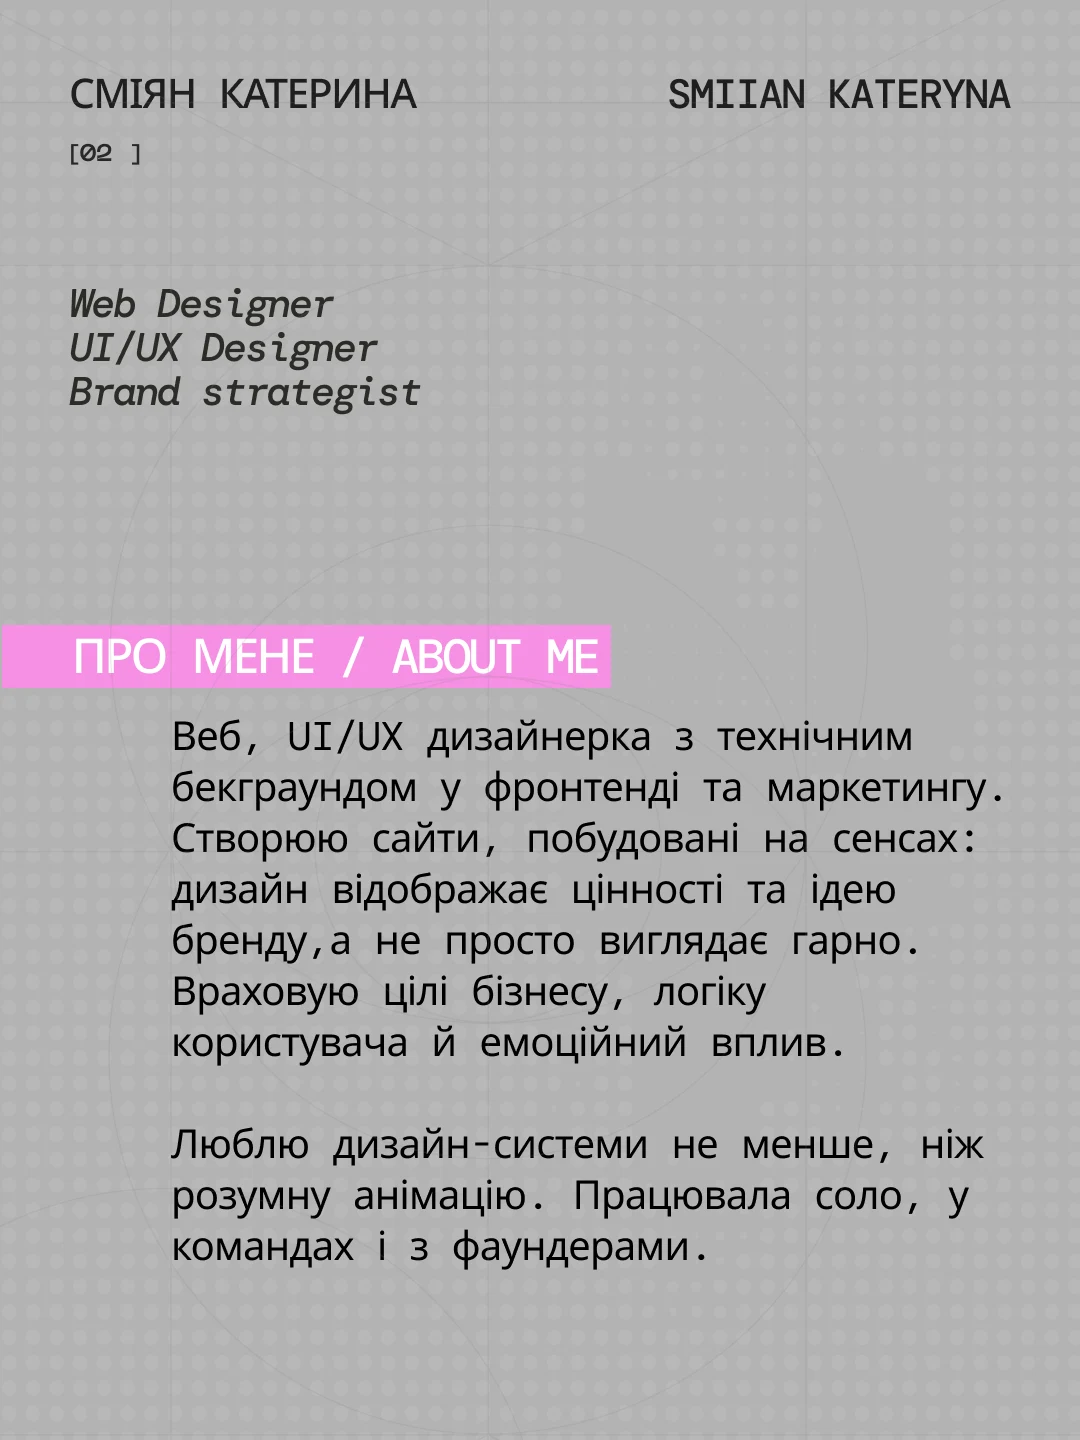
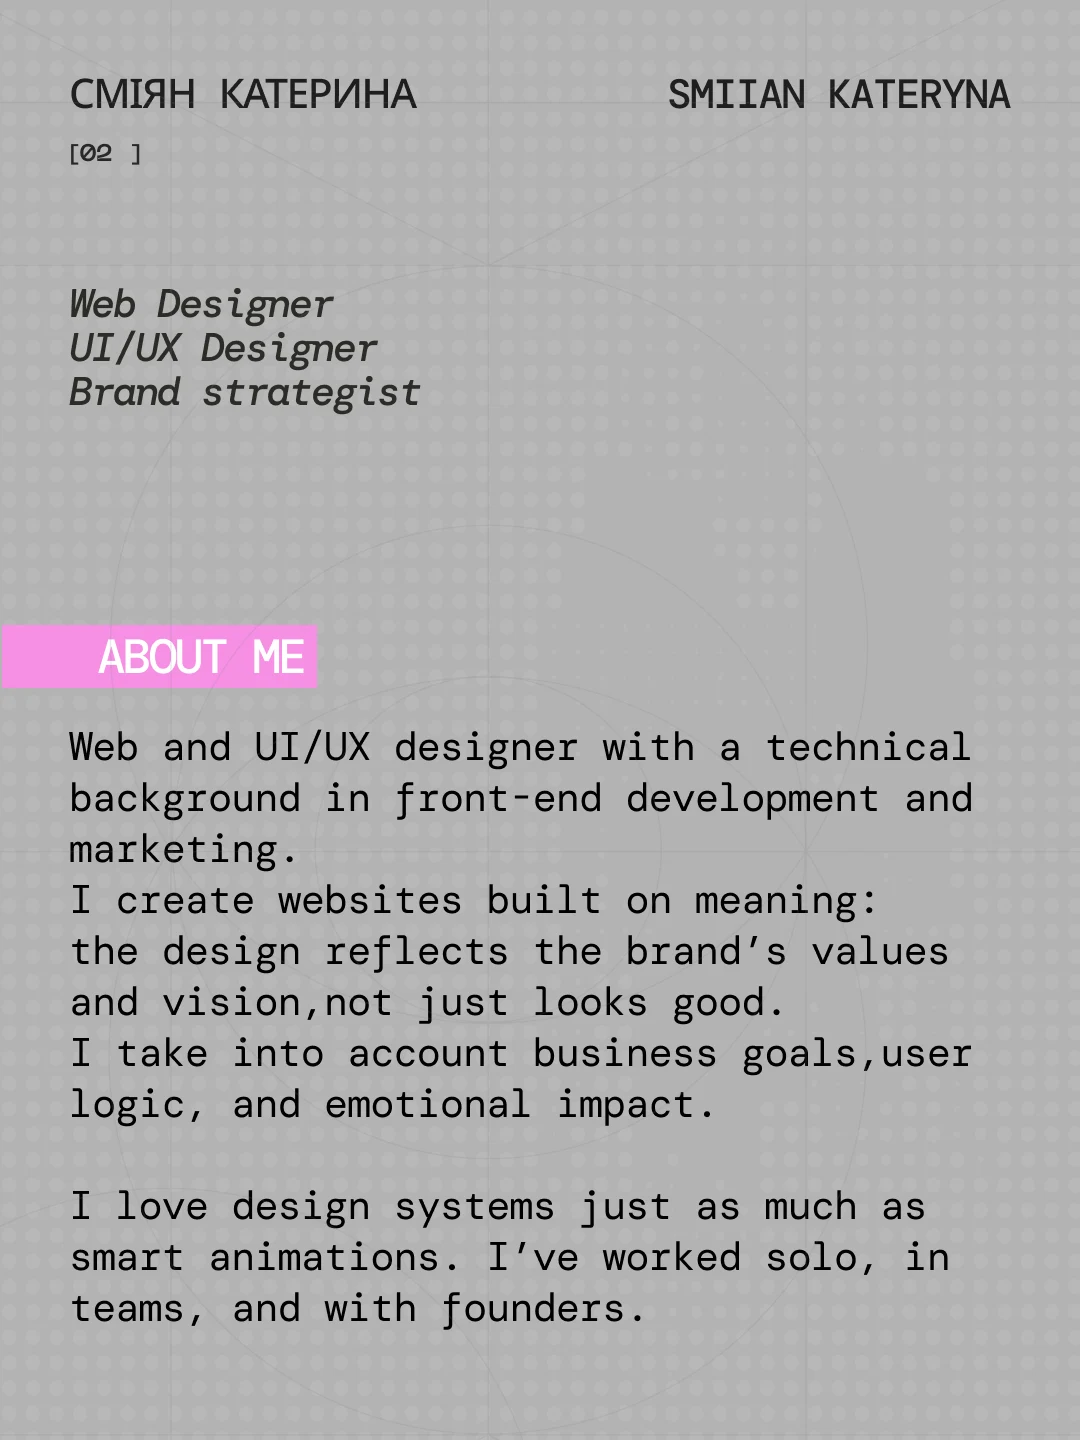
Badge back in English, Open project button sits under the case title
- About: badge back is the English "About me" (Frame 48097610 en); Ukrainian kept as badge-back-uk
- Portfolio: button follows the caption (card height x focus lift), never below the screen edge

Claude-Session: https://claude.ai/code/session_01QU2Ey3NwfuZ6z4669cXgvx

Changed region(s): [[0.0611, 0.4062, 0.9167, 0.9375], [0.8556, 0.7812, 0.9167, 0.8125], [0.825, 0.7188, 0.8861, 0.75]]

diff --git a/src/components/sections/portfolio/Portfolio.tsx b/src/components/sections/portfolio/Portfolio.tsx
@@ -32,6 +32,7 @@ const ROACH = { x: 1720, y: 811, w: 156.465, h: 235.8 };
 export function Portfolio() {
   const sectionRef = useRef<HTMLElement>(null);
   const apiRef = useRef<FlexCarouselApi | null>(null);
+  const stageRef = useRef<HTMLDivElement>(null);
   const arrived = usePortfolioScroll(sectionRef, count, apiRef);
   // відкритий кейс (клік по обкладинці) — під ним кнопка «Open project»
   const [opened, setOpened] = useState<number | null>(null);
@@ -60,7 +61,7 @@ export function Portfolio() {
         ))}
       </ul>
 
-      <div className="sticky top-0 h-svh overflow-hidden [--spacing:var(--u)] [--u:var(--s)] max-md:[--u:calc(var(--page-w,100vw)/1920)]">
+      <div ref={stageRef} className="sticky top-0 h-svh overflow-hidden [--spacing:var(--u)] [--u:var(--s)] max-md:[--u:calc(var(--page-w,100vw)/1920)]">
         <div className="absolute inset-0" aria-label={portfolio.galleryLabel} role="group">
           {arrived && noWebgl && (
             <ul className="flex size-full items-center justify-center gap-24 px-120">
@@ -83,14 +84,17 @@ export function Portfolio() {
               gap={24}
               captureWheel={false}
               apiRef={apiRef}
+              liftTargetRef={stageRef}
               onFocusChange={(open, index) => setOpened(open ? index : null)}
             />
           )}
         </div>
 
-        {/* кнопка під відкритим кейсом */}
+        {/* кнопка під відкритим кейсом — під назвою кейсу: та сама точка, що й підпис галереї
+            (низ картки: 50% + 25% × збільшення, підпис на 22 px нижче, рядок назви ≈ 20 px), але не нижче краю екрана */}
         <div
-          className={`absolute bottom-120 left-1/2 z-20 -translate-x-1/2 transition-[opacity,translate] duration-500 ${
+          style={{ top: "min(calc(50% + 25% * var(--flex-carousel-lift, 1) + 58px), calc(100% - 56px))" }}
+          className={`absolute left-1/2 z-20 -translate-x-1/2 transition-[opacity,translate] duration-500 ${
             openedCase ? "translate-y-0 opacity-100" : "pointer-events-none translate-y-16 opacity-0"
           }`}
           aria-hidden={openedCase ? undefined : true}

diff --git a/src/components/sections/about/Badge.tsx b/src/components/sections/about/Badge.tsx
@@ -2,7 +2,8 @@
 
 /*
  * Бейдж на шнурку для About: Lanyard (three.js), як у шаблоні React Bits.
- * Лице — фото (assets/about/badge-front), зворот — «Про мене» (badge-back), на рожевому шнурку — монограма KS.
+ * Лице — фото (assets/about/badge-front), зворот — «About me» англійською (badge-back, з assets-for-site/Frame 48097610 en;
+ * українська версія звороту — badge-back-uk, для UA-версії сайту), на рожевому шнурку — монограма KS.
  * Розмір, довжина шнурка, кути й «вітерець» — як у шаблоні (значення за замовчуванням Lanyard).
  * Тягни мишею, клік — перевертає. Вантажиться лише в браузері (About підключає через next/dynamic, ssr: false),
  * тож кольори токенів читаємо одразу.

diff --git a/src/components/effects/FlexCarousel.d.ts b/src/components/effects/FlexCarousel.d.ts
@@ -36,6 +36,8 @@ export type FlexCarouselProps = {
   onUnsupported?: () => void;
   /** керування ззовні: goTo(index), close() */
   apiRef?: { current: FlexCarouselApi | null };
+  /** елемент, якому теж писати --flex-carousel-lift (на скільки збільшена картка у фокусі) — щоб ставити щось під підписом */
+  liftTargetRef?: { current: HTMLElement | null };
   className?: string;
   style?: CSSProperties;
 };

diff --git a/src/components/effects/FlexCarousel.jsx b/src/components/effects/FlexCarousel.jsx
@@ -255,6 +255,7 @@ const FlexCarousel = ({
   onFocusChange,
   onUnsupported,
   apiRef,
+  liftTargetRef,
   className = '',
   style
 }) => {
@@ -824,6 +825,7 @@ const FlexCarousel = ({
       if (Math.abs(nextLift - lift) > 0.0005) {
         lift = nextLift;
         container.style.setProperty('--flex-carousel-lift', lift.toFixed(4));
+        liftTargetRef?.current?.style.setProperty('--flex-carousel-lift', lift.toFixed(4));
       }
 
       const effects = introEffects();

diff --git a/CLAUDE.md b/CLAUDE.md
@@ -41,7 +41,7 @@
 - Molecula (`sections/molecula/`, Figma «Look & Feel 11», node 12352:7619): крейдове тло `effects/ChalkField` → стопка карток `ui/CardStack` → тарган із блокнотом (`ui/RoachNote`, фраза на наведенні) → кнопка `ui/BlotButton`, що відкриває `ui/ContactDialog` (форма: послуга, ім'я, контакт, повідомлення; без сервера — «Send» відкриває заповнений лист на Email; нижче список контактів; підписи — `content/site.ts` → `chrome.form`). Секція висока, сцена прилипає до екрана, картки гортаються скролом або кліком/перетягуванням/клавішами (`molecula.motion.ts`). Тексти карток — `content/molecula.ts` (англ. + `uk`), кольори карток — `cardColors` у `Molecula.tsx`.
 - Закріплене в екрані на всьому сайті — `layout/SiteChrome.tsx` (підключено в `layout.tsx`): угорі ліворуч підпис «kateryna smiian», угорі праворуч стовпчиком `[ GET IN TOUCH]`, `[ UA]`, `[ EN]`, внизу ліворуч прогрес-бар (лінія з крапками: верхня — hero, далі по одній на пункт меню) і меню `[MOLECULA     ]`. Активна секція — рожева крапка зі світінням і рожевий пункт меню. Колір пункту — за тлом секції під ним: секція ставить `data-nav-theme="light"` (темний текст) або `"dark"` (кремовий). З'являється разом з меню hero (подія `chrome:show`). Вікно зв'язку одне на сайт: `openContact()` з `ui/ContactDialog`. На мобільному поки лише правий верхній кут — меню переїде в бургер.
 - Порядок секцій: Hero → Molecula → About → Portfolio → Services → Contact. Testimonials поки сховані (`hidden: true` у `content/site.ts` → `sections`; меню `navigation` — лише видимі).
-- About (`sections/about/`, Figma «Look & Feel 12», node 12361:167): тло `--color-night`; великий жовтий текст — контури Coolvetica (`node scripts/gen-about-lettering.mjs` → `about/lettering.ts`, текст у `content/about.ts`) з ефектом Luminous (`effects/LuminousText.tsx`); бейдж на шнурку — `effects/Lanyard.jsx` (three.js) як у шаблоні React Bits: лице `badge-front`, зворот «Про мене» `badge-back`, шнурок із монограмою `strap-ks` (`assets/about`, з `assets-for-site`); тарган із німбом після тексту; іконки контактів (посилання — `content/site.ts` → `contacts`, замість LinkedIn — WhatsApp). Секція трохи вища за екран: коли повністю заїхала — сцена стоїть, з'являється текст із підсвіткою, тарган, іконки (`about.motion.ts`).
+- About (`sections/about/`, Figma «Look & Feel 12», node 12361:167): тло `--color-night`; великий жовтий текст — контури Coolvetica (`node scripts/gen-about-lettering.mjs` → `about/lettering.ts`, текст у `content/about.ts`) з ефектом Luminous (`effects/LuminousText.tsx`); бейдж на шнурку — `effects/Lanyard.jsx` (three.js) як у шаблоні React Bits: лице `badge-front`, зворот «About me» `badge-back` (англ.; українська — `badge-back-uk` для UA-версії), шнурок із монограмою `strap-ks` (`assets/about`, з `assets-for-site`); тарган із німбом після тексту; іконки контактів (посилання — `content/site.ts` → `contacts`, замість LinkedIn — WhatsApp). Секція трохи вища за екран: коли повністю заїхала — сцена стоїть, з'являється текст із підсвіткою, тарган, іконки (`about.motion.ts`).
 - Portfolio (`sections/portfolio/`, Figma «Look & Feel 13», node 12364:229): тло `--color-night`, посередині галерея кейсів `effects/FlexCarousel.jsx` (WebGL, ogl) з обкладинками з `assets/portfolio` (з `assets-for-site/cases`, назва = назва кейсу; список — `content/portfolio.ts`). Сцена прилипає, лише коли секція повністю в екрані; тоді ж з'являється галерея, і скрол гортає кейси по черзі (`portfolio.motion.ts`). Клік по обкладинці відкриває кейс, під ним кнопка «Open project» → сторінка кейса `/portfolio/<slug>` (`app/portfolio/[slug]/page.tsx`, поки заглушка без макета). Тарганка з намистом унизу праворуч.
 - Services (`sections/services/`, Figma «Look & Feel 14», node 12364:282 — орієнтовний макет на 3 картки): тло `--color-night`, заголовок SERVICES і ціни — контури Coolvetica (`node scripts/gen-services-lettering.mjs` → `services/lettering.ts`), 5 карток-аркушів віялом (тексти й ціни — `content/services.ts`), клік по картці обирає її (виходить наперед, вирівнюється, жовте світіння), кнопка під віялом відкриває вікно зв'язку з уже обраною послугою (`openContact(title)`); тарган за кермом під кнопкою, фраза на наведенні. Поява — коли секція повністю в екрані (`services.motion.ts`). На мобільному — ряд карток, що гортається вбік.
 - Contact (`sections/contact/`, макета немає — за описом): світле тло `--color-cream`, унизу заголовок hero (DESIGNER, OF VISUAL SENSES, ім'я з тим самим вирізом; контури з `hero/lettering.ts`, зменшені в 0.85 і зсунуті правіше меню), над ним великі рожеві іконки контактів (`content/contact.ts` → порядок, посилання — `contacts`). Поява — коли секція повністю в екрані: заголовок виїжджає знизу, іконки вистрибують і «малюються» (`contact.motion.ts`).
